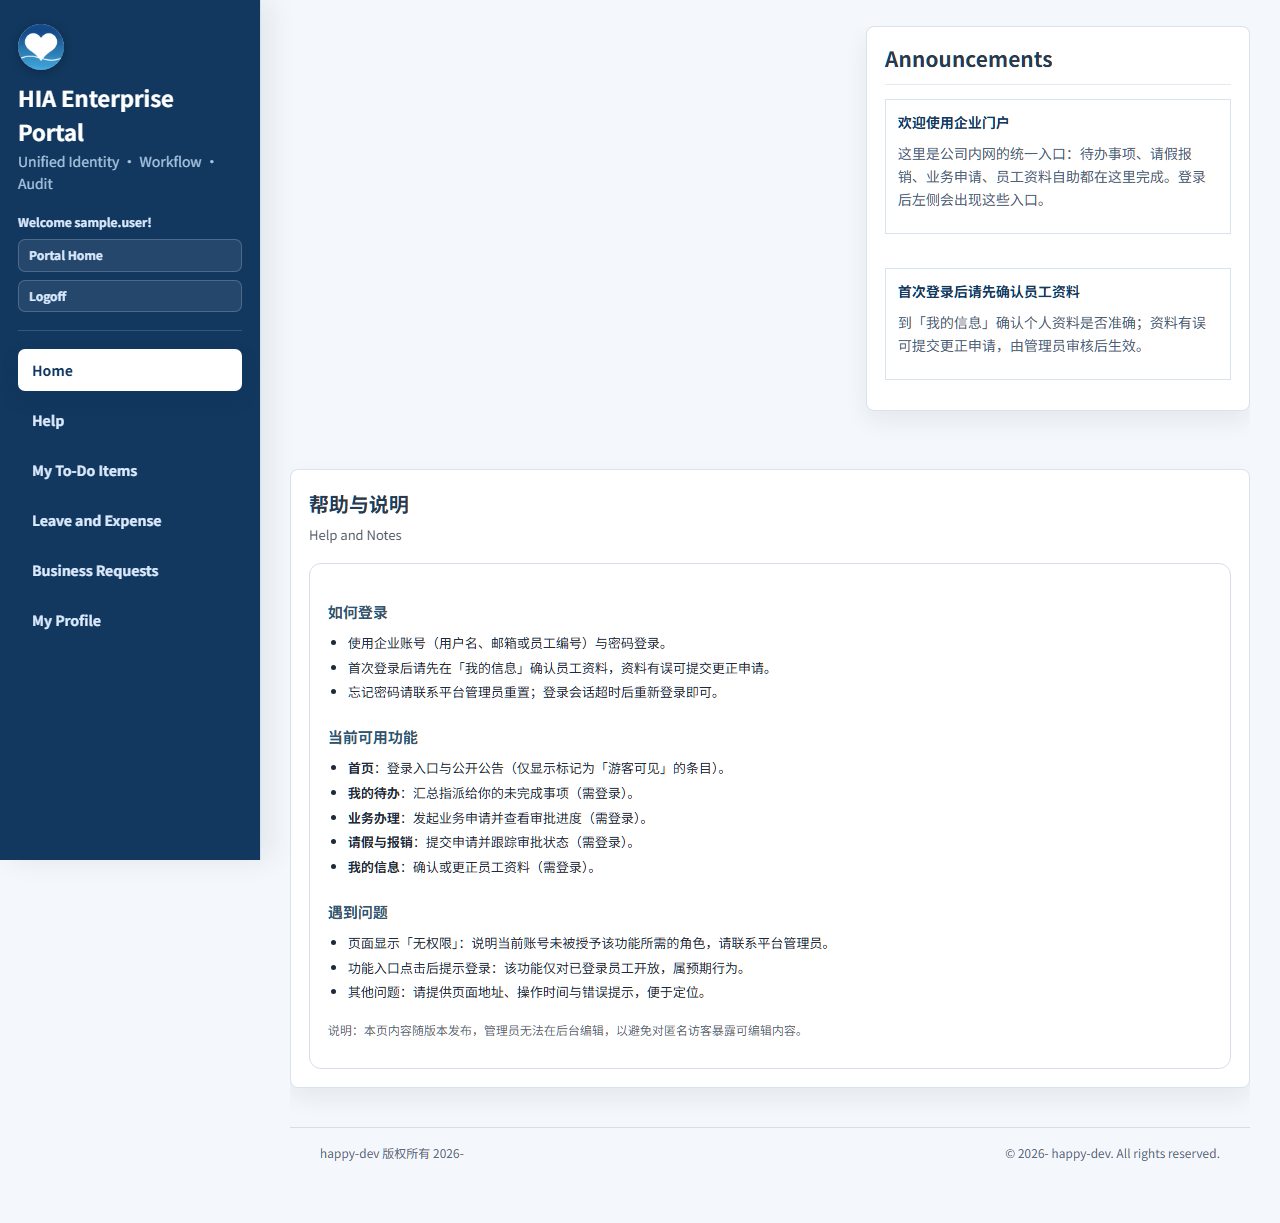
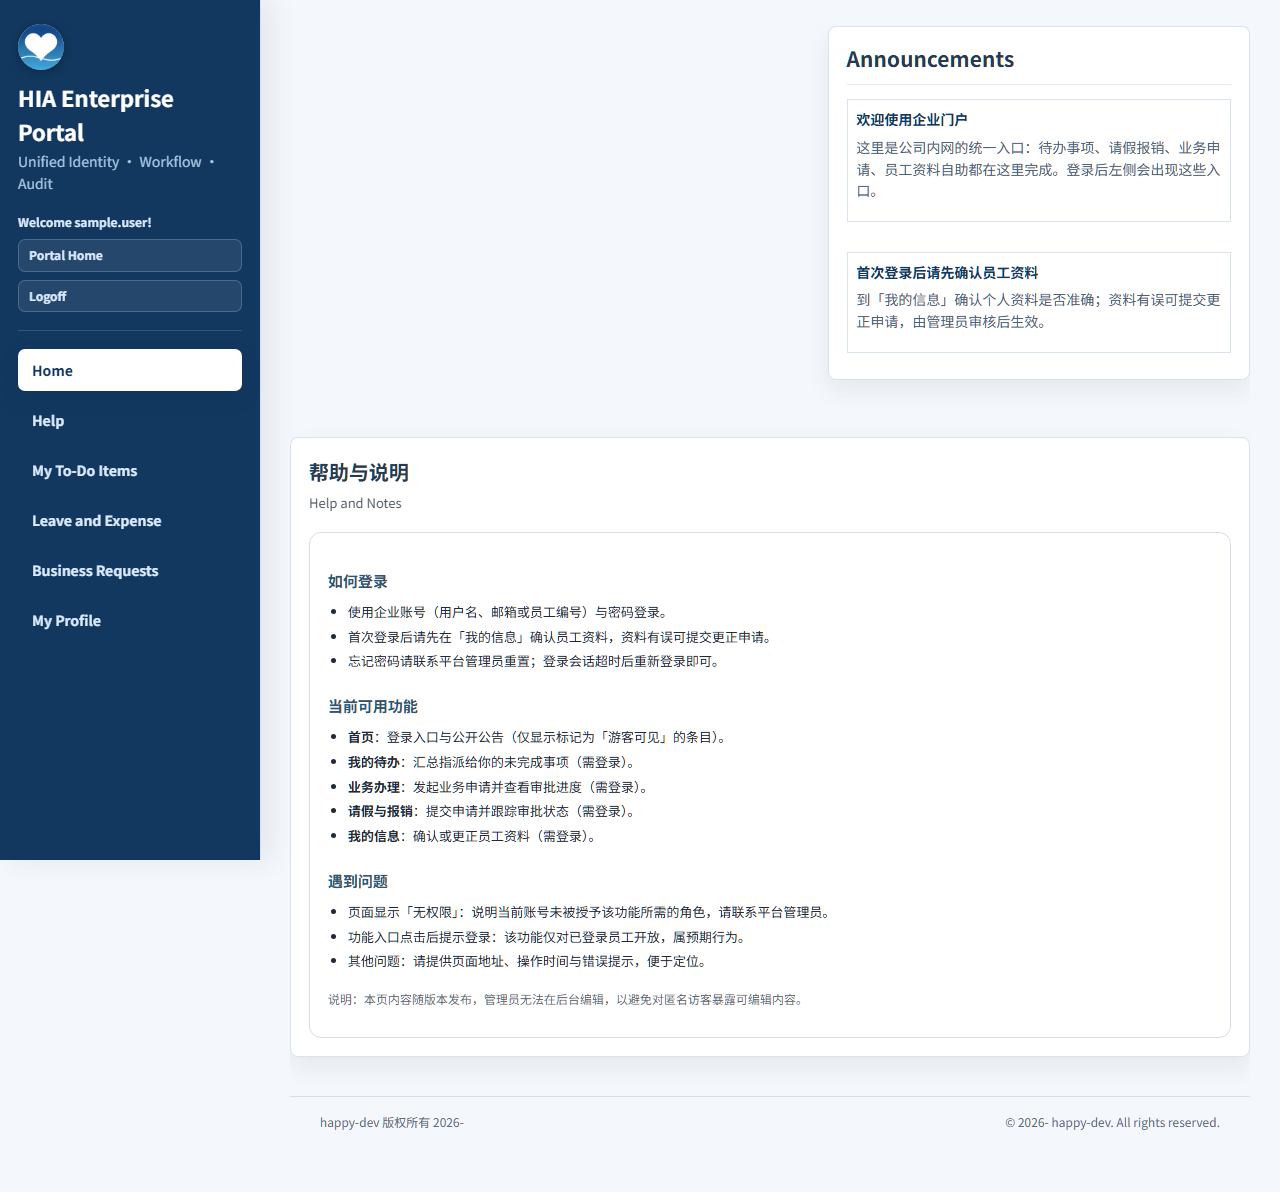
feat(ui): 首页第一行两卡等高——登录字段纵排+按钮贴底，公告卡拉宽收紧
按产品意见「增加登录区的高度达成一致、公告区适当拉宽并降低」：① 登录卡两个字段由并排改为纵排（.portal-field 改 display:block），卡片自然加高；② 登录按钮改为绝对定位贴卡片底部，表单的呼吸区留在中部；③ 公告卡宽度 40%→44%，条目内距 12→9px、外边距 12→8px、摘要行高 1.65→1.55，卡片高度下降。

实测两卡高度精确一致（354px = 354px，此前 286px vs 385px）。min-height 作用在内容盒（总高 = min-height + 上下内边距 + 边框），公告条数变化后需复核该值 —— 已在 6 套主题的覆盖块注释里写明。

过程记录：上一步曾因发布脚本输出被 Select-Object -First 截断（管道提前关闭、脚本仍在后台跑）导致拷贝时产物尚未落盘、报「路径不存在」；改为不截断输出并单独拷贝后正常。文档站 8 张首页截图随之重拍（临时账号拍完即删，残留 0）；L0 54 项全绿。

diff --git a/src/Portal/App_Themes/EnterpriseDark/Default.css b/src/Portal/App_Themes/EnterpriseDark/Default.css
@@ -2009,7 +2009,9 @@ body.portal-theme-enterprisedark .portal-package-hia-moduleprobe { /* <lang><zh-
    实现约束：IE9 安全（float + clear；不用 Grid / Flexbox —— 见 Default/Default.css 的主题包约束）。
    为什么改：原布局把三个窗格排成同一行（账户登录 260px｜门户公告 300px｜帮助与说明），
    公告与帮助两张卡内容都短，右侧长期留白、首页显得空；改为「上二下一」后，
-   第一行两张卡并排占满宽度，第二行帮助与说明通栏，与产品草图一致。 */
+   第一行两张卡并排占满宽度，第二行帮助与说明通栏，与产品草图一致。
+   两卡等高：登录卡的字段改为纵排（并排时卡片只有一行高，与公告卡不齐），
+   公告卡相应拉宽（描述换行变少、卡片更矮），两者高度因此接近。 */
 body.portal-tab-1 .portal-dashboard-layout {
     display: block;
     border-collapse: separate;
@@ -2023,16 +2025,44 @@ body.portal-tab-1 .portal-dashboard-layout .portal-pane {
 }
 body.portal-tab-1 .portal-dashboard-layout .portal-pane-left {
     float: left;
-    width: 58%;
+    width: 54%;
     margin: 0 2% 18px 0;
 }
 body.portal-tab-1 .portal-dashboard-layout .portal-pane-content {
     float: right;
-    width: 40%;
+    width: 44%;
     margin: 0 0 18px 0;
 }
 body.portal-tab-1 .portal-dashboard-layout .portal-pane-right {
     clear: both;
     width: 100%;
     margin: 0;
+}
+/* 登录卡：两个字段由并排改为纵排，卡片高度随之增加，与公告卡视觉等高 */
+body.portal-tab-1 .portal-pane-left .portal-field {
+    display: block;
+    width: 100%;
+    max-width: 280px;
+    margin: 0 0 12px 0;
+}
+/* 登录卡等高处理：按钮贴卡片底部（表单的"呼吸区"留在中部），卡片最小高度对齐公告卡当前高度。
+   min-height 作用在内容盒，故总高 = min-height + 上下内边距 + 边框。公告条数变化后需复核该值。 */
+body.portal-tab-1 .portal-pane-left .portal-module {
+    position: relative;
+    min-height: 274px;
+    padding-bottom: 60px;
+}
+body.portal-tab-1 .portal-pane-left .portal-action-row {
+    position: absolute;
+    left: 18px;
+    bottom: 18px;
+}
+/* 公告卡"降低"：条目内距与行高收紧，两条公告的卡片高度下降，与加高后的登录卡齐平 */
+body.portal-tab-1 .portal-pane-content .portal-content-list-item {
+    margin: 0 0 8px;
+    padding: 9px;
+}
+body.portal-tab-1 .portal-pane-content .portal-content-item-summary {
+    margin-top: 6px;
+    line-height: 1.55;
 }

diff --git a/src/Portal/App_Themes/StateClassicDark/Default.css b/src/Portal/App_Themes/StateClassicDark/Default.css
@@ -2019,7 +2019,9 @@ body.portal-theme-stateclassicdark .portal-package-hia-moduleprobe { /* <lang><z
    实现约束：IE9 安全（float + clear；不用 Grid / Flexbox —— 见 Default/Default.css 的主题包约束）。
    为什么改：原布局把三个窗格排成同一行（账户登录 260px｜门户公告 300px｜帮助与说明），
    公告与帮助两张卡内容都短，右侧长期留白、首页显得空；改为「上二下一」后，
-   第一行两张卡并排占满宽度，第二行帮助与说明通栏，与产品草图一致。 */
+   第一行两张卡并排占满宽度，第二行帮助与说明通栏，与产品草图一致。
+   两卡等高：登录卡的字段改为纵排（并排时卡片只有一行高，与公告卡不齐），
+   公告卡相应拉宽（描述换行变少、卡片更矮），两者高度因此接近。 */
 body.portal-tab-1 .portal-dashboard-layout {
     display: block;
     border-collapse: separate;
@@ -2033,16 +2035,44 @@ body.portal-tab-1 .portal-dashboard-layout .portal-pane {
 }
 body.portal-tab-1 .portal-dashboard-layout .portal-pane-left {
     float: left;
-    width: 58%;
+    width: 54%;
     margin: 0 2% 18px 0;
 }
 body.portal-tab-1 .portal-dashboard-layout .portal-pane-content {
     float: right;
-    width: 40%;
+    width: 44%;
     margin: 0 0 18px 0;
 }
 body.portal-tab-1 .portal-dashboard-layout .portal-pane-right {
     clear: both;
     width: 100%;
     margin: 0;
+}
+/* 登录卡：两个字段由并排改为纵排，卡片高度随之增加，与公告卡视觉等高 */
+body.portal-tab-1 .portal-pane-left .portal-field {
+    display: block;
+    width: 100%;
+    max-width: 280px;
+    margin: 0 0 12px 0;
+}
+/* 登录卡等高处理：按钮贴卡片底部（表单的"呼吸区"留在中部），卡片最小高度对齐公告卡当前高度。
+   min-height 作用在内容盒，故总高 = min-height + 上下内边距 + 边框。公告条数变化后需复核该值。 */
+body.portal-tab-1 .portal-pane-left .portal-module {
+    position: relative;
+    min-height: 274px;
+    padding-bottom: 60px;
+}
+body.portal-tab-1 .portal-pane-left .portal-action-row {
+    position: absolute;
+    left: 18px;
+    bottom: 18px;
+}
+/* 公告卡"降低"：条目内距与行高收紧，两条公告的卡片高度下降，与加高后的登录卡齐平 */
+body.portal-tab-1 .portal-pane-content .portal-content-list-item {
+    margin: 0 0 8px;
+    padding: 9px;
+}
+body.portal-tab-1 .portal-pane-content .portal-content-item-summary {
+    margin-top: 6px;
+    line-height: 1.55;
 }

diff --git a/src/Portal/App_Themes/StateClassicLight/Default.css b/src/Portal/App_Themes/StateClassicLight/Default.css
@@ -2022,7 +2022,9 @@ body.portal-theme-stateclassiclight .employee-profile-correction-message {
    实现约束：IE9 安全（float + clear；不用 Grid / Flexbox —— 见 Default/Default.css 的主题包约束）。
    为什么改：原布局把三个窗格排成同一行（账户登录 260px｜门户公告 300px｜帮助与说明），
    公告与帮助两张卡内容都短，右侧长期留白、首页显得空；改为「上二下一」后，
-   第一行两张卡并排占满宽度，第二行帮助与说明通栏，与产品草图一致。 */
+   第一行两张卡并排占满宽度，第二行帮助与说明通栏，与产品草图一致。
+   两卡等高：登录卡的字段改为纵排（并排时卡片只有一行高，与公告卡不齐），
+   公告卡相应拉宽（描述换行变少、卡片更矮），两者高度因此接近。 */
 body.portal-tab-1 .portal-dashboard-layout {
     display: block;
     border-collapse: separate;
@@ -2036,16 +2038,44 @@ body.portal-tab-1 .portal-dashboard-layout .portal-pane {
 }
 body.portal-tab-1 .portal-dashboard-layout .portal-pane-left {
     float: left;
-    width: 58%;
+    width: 54%;
     margin: 0 2% 18px 0;
 }
 body.portal-tab-1 .portal-dashboard-layout .portal-pane-content {
     float: right;
-    width: 40%;
+    width: 44%;
     margin: 0 0 18px 0;
 }
 body.portal-tab-1 .portal-dashboard-layout .portal-pane-right {
     clear: both;
     width: 100%;
     margin: 0;
+}
+/* 登录卡：两个字段由并排改为纵排，卡片高度随之增加，与公告卡视觉等高 */
+body.portal-tab-1 .portal-pane-left .portal-field {
+    display: block;
+    width: 100%;
+    max-width: 280px;
+    margin: 0 0 12px 0;
+}
+/* 登录卡等高处理：按钮贴卡片底部（表单的"呼吸区"留在中部），卡片最小高度对齐公告卡当前高度。
+   min-height 作用在内容盒，故总高 = min-height + 上下内边距 + 边框。公告条数变化后需复核该值。 */
+body.portal-tab-1 .portal-pane-left .portal-module {
+    position: relative;
+    min-height: 274px;
+    padding-bottom: 60px;
+}
+body.portal-tab-1 .portal-pane-left .portal-action-row {
+    position: absolute;
+    left: 18px;
+    bottom: 18px;
+}
+/* 公告卡"降低"：条目内距与行高收紧，两条公告的卡片高度下降，与加高后的登录卡齐平 */
+body.portal-tab-1 .portal-pane-content .portal-content-list-item {
+    margin: 0 0 8px;
+    padding: 9px;
+}
+body.portal-tab-1 .portal-pane-content .portal-content-item-summary {
+    margin-top: 6px;
+    line-height: 1.55;
 }

diff --git a/src/Portal/App_Themes/EnterpriseLight/Default.css b/src/Portal/App_Themes/EnterpriseLight/Default.css
@@ -2012,7 +2012,9 @@ body.portal-theme-enterpriselight .employee-profile-correction-message {
    实现约束：IE9 安全（float + clear；不用 Grid / Flexbox —— 见 Default/Default.css 的主题包约束）。
    为什么改：原布局把三个窗格排成同一行（账户登录 260px｜门户公告 300px｜帮助与说明），
    公告与帮助两张卡内容都短，右侧长期留白、首页显得空；改为「上二下一」后，
-   第一行两张卡并排占满宽度，第二行帮助与说明通栏，与产品草图一致。 */
+   第一行两张卡并排占满宽度，第二行帮助与说明通栏，与产品草图一致。
+   两卡等高：登录卡的字段改为纵排（并排时卡片只有一行高，与公告卡不齐），
+   公告卡相应拉宽（描述换行变少、卡片更矮），两者高度因此接近。 */
 body.portal-tab-1 .portal-dashboard-layout {
     display: block;
     border-collapse: separate;
@@ -2026,16 +2028,44 @@ body.portal-tab-1 .portal-dashboard-layout .portal-pane {
 }
 body.portal-tab-1 .portal-dashboard-layout .portal-pane-left {
     float: left;
-    width: 58%;
+    width: 54%;
     margin: 0 2% 18px 0;
 }
 body.portal-tab-1 .portal-dashboard-layout .portal-pane-content {
     float: right;
-    width: 40%;
+    width: 44%;
     margin: 0 0 18px 0;
 }
 body.portal-tab-1 .portal-dashboard-layout .portal-pane-right {
     clear: both;
     width: 100%;
     margin: 0;
+}
+/* 登录卡：两个字段由并排改为纵排，卡片高度随之增加，与公告卡视觉等高 */
+body.portal-tab-1 .portal-pane-left .portal-field {
+    display: block;
+    width: 100%;
+    max-width: 280px;
+    margin: 0 0 12px 0;
+}
+/* 登录卡等高处理：按钮贴卡片底部（表单的"呼吸区"留在中部），卡片最小高度对齐公告卡当前高度。
+   min-height 作用在内容盒，故总高 = min-height + 上下内边距 + 边框。公告条数变化后需复核该值。 */
+body.portal-tab-1 .portal-pane-left .portal-module {
+    position: relative;
+    min-height: 274px;
+    padding-bottom: 60px;
+}
+body.portal-tab-1 .portal-pane-left .portal-action-row {
+    position: absolute;
+    left: 18px;
+    bottom: 18px;
+}
+/* 公告卡"降低"：条目内距与行高收紧，两条公告的卡片高度下降，与加高后的登录卡齐平 */
+body.portal-tab-1 .portal-pane-content .portal-content-list-item {
+    margin: 0 0 8px;
+    padding: 9px;
+}
+body.portal-tab-1 .portal-pane-content .portal-content-item-summary {
+    margin-top: 6px;
+    line-height: 1.55;
 }

diff --git a/src/Portal/App_Themes/OaLight/Default.css b/src/Portal/App_Themes/OaLight/Default.css
@@ -2012,7 +2012,9 @@ body.portal-theme-oalight .employee-profile-correction-message {
    实现约束：IE9 安全（float + clear；不用 Grid / Flexbox —— 见 Default/Default.css 的主题包约束）。
    为什么改：原布局把三个窗格排成同一行（账户登录 260px｜门户公告 300px｜帮助与说明），
    公告与帮助两张卡内容都短，右侧长期留白、首页显得空；改为「上二下一」后，
-   第一行两张卡并排占满宽度，第二行帮助与说明通栏，与产品草图一致。 */
+   第一行两张卡并排占满宽度，第二行帮助与说明通栏，与产品草图一致。
+   两卡等高：登录卡的字段改为纵排（并排时卡片只有一行高，与公告卡不齐），
+   公告卡相应拉宽（描述换行变少、卡片更矮），两者高度因此接近。 */
 body.portal-tab-1 .portal-dashboard-layout {
     display: block;
     border-collapse: separate;
@@ -2026,16 +2028,44 @@ body.portal-tab-1 .portal-dashboard-layout .portal-pane {
 }
 body.portal-tab-1 .portal-dashboard-layout .portal-pane-left {
     float: left;
-    width: 58%;
+    width: 54%;
     margin: 0 2% 18px 0;
 }
 body.portal-tab-1 .portal-dashboard-layout .portal-pane-content {
     float: right;
-    width: 40%;
+    width: 44%;
     margin: 0 0 18px 0;
 }
 body.portal-tab-1 .portal-dashboard-layout .portal-pane-right {
     clear: both;
     width: 100%;
     margin: 0;
+}
+/* 登录卡：两个字段由并排改为纵排，卡片高度随之增加，与公告卡视觉等高 */
+body.portal-tab-1 .portal-pane-left .portal-field {
+    display: block;
+    width: 100%;
+    max-width: 280px;
+    margin: 0 0 12px 0;
+}
+/* 登录卡等高处理：按钮贴卡片底部（表单的"呼吸区"留在中部），卡片最小高度对齐公告卡当前高度。
+   min-height 作用在内容盒，故总高 = min-height + 上下内边距 + 边框。公告条数变化后需复核该值。 */
+body.portal-tab-1 .portal-pane-left .portal-module {
+    position: relative;
+    min-height: 274px;
+    padding-bottom: 60px;
+}
+body.portal-tab-1 .portal-pane-left .portal-action-row {
+    position: absolute;
+    left: 18px;
+    bottom: 18px;
+}
+/* 公告卡"降低"：条目内距与行高收紧，两条公告的卡片高度下降，与加高后的登录卡齐平 */
+body.portal-tab-1 .portal-pane-content .portal-content-list-item {
+    margin: 0 0 8px;
+    padding: 9px;
+}
+body.portal-tab-1 .portal-pane-content .portal-content-item-summary {
+    margin-top: 6px;
+    line-height: 1.55;
 }

diff --git a/CHANGELOG.md b/CHANGELOG.md
@@ -12,6 +12,7 @@
 
 - **首页布局（上二下一）**：原布局把三个窗格排成同一行（账户登录 260px｜门户公告 300px｜帮助与说明），公告与帮助两张卡内容都短，右侧长期留白、首页显得空。现改为第一行「账户登录（58%）+ 门户公告（40%）」并排、第二行「帮助与说明」通栏。改动落在 6 套主题 CSS（Enterprise / StateClassic / Oa 的 Light + Dark），实现口径 IE9 安全（`float` + `clear`，**不用 Grid / Flexbox** —— 主题包约束明令禁止），并且只影响首页：作用域限定 `body.portal-tab-1`（真实 TabId=1），其它页签通常只有一个模块，套用两列浮动会被挤到 40% 宽，故仍保持原三栏等高表格布局。
 - **文档站首页截图同步重拍**：8 张实拍图（中文 / 英文各 4 张）在新布局下重拍，临时账号拍完即删（残留 0）。
+- **第一行两卡等高**：按产品意见"增加登录区的高度达成一致、公告区适当拉宽并降低"，登录卡两个字段由并排改为**纵排**（卡片自然加高）、**登录按钮贴卡片底部**（表单呼吸区留在中部）、公告卡宽度 40% → **44%** 并收紧条目内距与行高。实测两卡高度**精确一致（354px = 354px）**；`min-height` 作用在内容盒，公告条数变化后需复核该值（已在主题 CSS 注释中写明）。
 
 ### 验证
 
